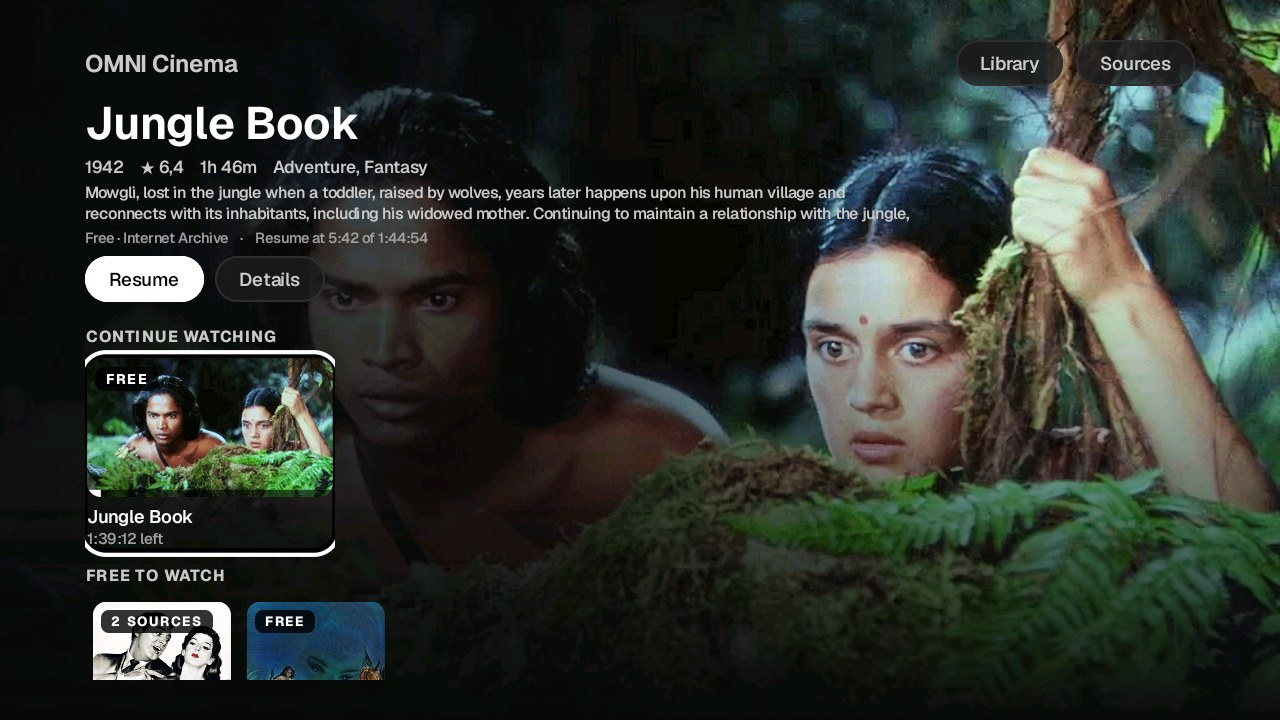
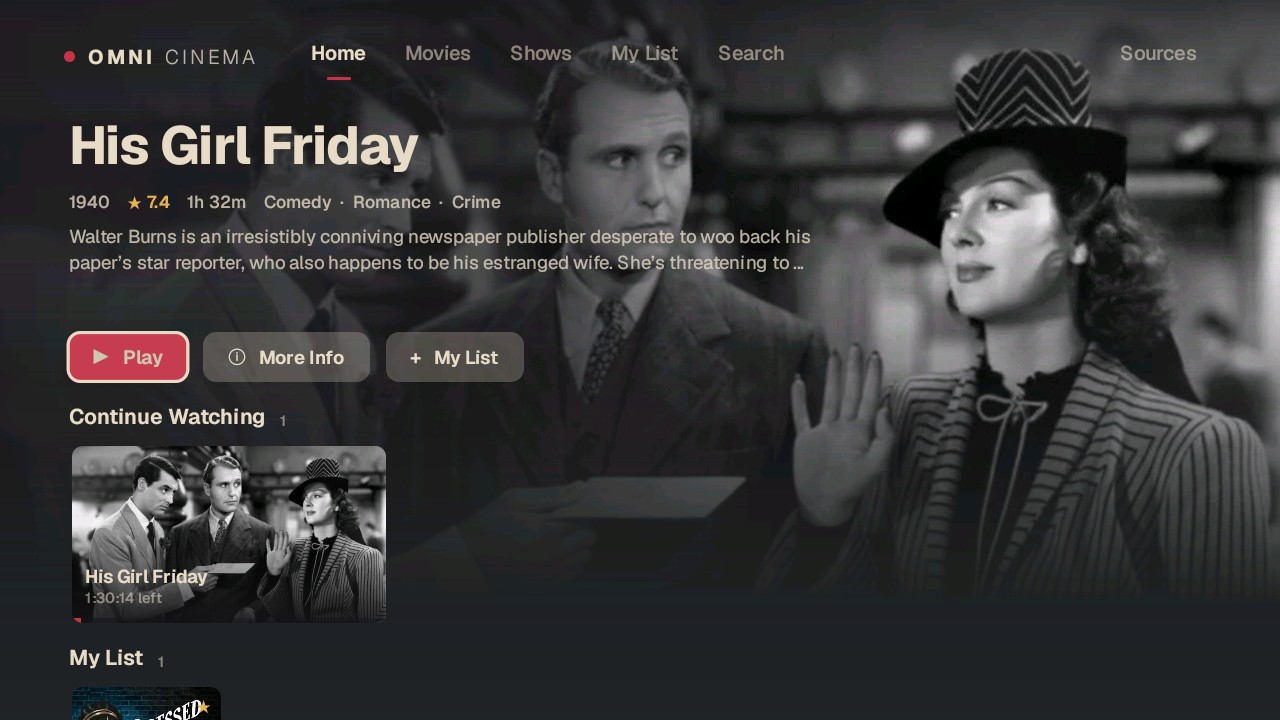
Cinema: horizontal focus stops at row ends; README screenshots and changelog for the redesign

diff --git a/android/apps/cinema/src/main/kotlin/com/rasha/omni/cinema/Home.kt b/android/apps/cinema/src/main/kotlin/com/rasha/omni/cinema/Home.kt
@@ -178,7 +178,7 @@ private fun HomeTab(vm: CinemaViewModel, play: (Entry) -> Unit) {
                         Text(r.title, style = CineType.Row)
                         Text(r.items.size.toString(), style = CineType.Small)
                     }
-                    LazyRow(horizontalArrangement = Arrangement.spacedBy(14.dp), contentPadding = PaddingValues(start = 6.dp, end = 30.dp, top = 12.dp, bottom = 4.dp)) {
+                    LazyRow(Modifier.rowFence(), horizontalArrangement = Arrangement.spacedBy(14.dp), contentPadding = PaddingValues(start = 6.dp, end = 30.dp, top = 12.dp, bottom = 4.dp)) {
                         items(r.items, key = { r.id + it.id.text }) { t ->
                             val key = r.id + t.id.text
                             if (r.landscape) LandscapeCard(vm.lib, t, onClick = { vm.go(Screen.Title(t.id.text)) }, focusKey = key, restoreKey = vm.lastFocus, onFocused = { vm.lastFocus = key; focused = it })
@@ -215,7 +215,7 @@ private fun HeroActions(vm: CinemaViewModel, t: Title, play: (Entry) -> Unit, mo
     val saved by vm.myList.collectAsStateWithLifecycle()
     val inList = t.id.text in saved
     val resume = PlayRules.resumeAt(t.positionMs, t.durationMs)
-    Row(modifier.onFocusChanged { if (it.hasFocus) onFocus() }, horizontalArrangement = Arrangement.spacedBy(12.dp)) {
+    Row(modifier.onFocusChanged { if (it.hasFocus) onFocus() }.rowFence(), horizontalArrangement = Arrangement.spacedBy(12.dp)) {
         if (t.kind != "show") CineButton(if (resume != null) "Resume  ${PlayRules.clock(resume)}" else "Play", { vm.playTitle(t, play) }, Modifier.focusRequester(first), BtnKind.Primary, icon = "▶")
         CineButton("More Info", { vm.go(Screen.Title(t.id.text)) }, if (t.kind == "show") Modifier.focusRequester(first) else Modifier, icon = "ⓘ")
         CineButton(if (inList) "In My List" else "My List", { vm.toggleList(t.id.text) }, icon = if (inList) "✓" else "+", iconColor = if (inList) Cine.Gold else null)
@@ -256,7 +256,7 @@ private fun GridTab(vm: CinemaViewModel, tab: Tab) {
             Text(tab.label, style = CineType.Page)
             if (list.isNotEmpty()) Text(if (list.size == 1) "1 title" else "${list.size} titles", Modifier.padding(bottom = 4.dp), style = CineType.Small)
         }
-        if (base.size > 1) LazyRow(Modifier.padding(top = 10.dp), horizontalArrangement = Arrangement.spacedBy(8.dp), contentPadding = PaddingValues(horizontal = 4.dp, vertical = 4.dp)) {
+        if (base.size > 1) LazyRow(Modifier.padding(top = 10.dp).rowFence(), horizontalArrangement = Arrangement.spacedBy(8.dp), contentPadding = PaddingValues(horizontal = 4.dp, vertical = 4.dp)) {
             items(genres) { g -> Chip(g, g == genre) { genre = g } }
             item { Spacer(Modifier.width(10.dp)) }
             item { Chip("Sort: ${sort.label}", false) { sort = Sort.values()[(sort.ordinal + 1) % Sort.values().size] } }
@@ -268,7 +268,7 @@ private fun GridTab(vm: CinemaViewModel, tab: Tab) {
                 tab == Tab.Shows -> "No series in your library yet. Episodes named like “Show S01E02” on your server or USB drive appear here."
                 else -> "No films here yet. Add a source in Sources."
             }, Modifier.padding(top = 24.dp, start = 4.dp).widthIn(max = 560.dp), style = CineType.Body)
-        } else LazyVerticalGrid(GridCells.Fixed(7), Modifier.fillMaxSize().padding(top = 6.dp), horizontalArrangement = Arrangement.spacedBy(14.dp), verticalArrangement = Arrangement.spacedBy(4.dp),
+        } else LazyVerticalGrid(GridCells.Fixed(7), Modifier.fillMaxSize().padding(top = 6.dp).rowFence(), horizontalArrangement = Arrangement.spacedBy(14.dp), verticalArrangement = Arrangement.spacedBy(4.dp),
             contentPadding = PaddingValues(start = 6.dp, end = 6.dp, top = 12.dp, bottom = 40.dp)) {
             items(list.size, key = { list[it].id.text }) { i ->
                 val t = list[i]
@@ -336,7 +336,7 @@ private fun SearchTab(vm: CinemaViewModel) {
             }
             Column(Modifier.weight(1f)) {
                 Text(when { q.isBlank() -> "Your library: ${ui.titles.size} titles"; results.isEmpty() -> "Nothing in your library matches “$q”"; else -> "${results.size} found" }, style = CineType.Row)
-                LazyVerticalGrid(GridCells.Fixed(5), Modifier.fillMaxSize(), horizontalArrangement = Arrangement.spacedBy(14.dp), verticalArrangement = Arrangement.spacedBy(4.dp),
+                LazyVerticalGrid(GridCells.Fixed(5), Modifier.fillMaxSize().rowFence(left = true), horizontalArrangement = Arrangement.spacedBy(14.dp), verticalArrangement = Arrangement.spacedBy(4.dp),
                     contentPadding = PaddingValues(start = 6.dp, end = 6.dp, top = 14.dp, bottom = 40.dp)) {
                     val shown = if (q.isBlank()) ui.titles.sortedByDescending { it.added } else results
                     items(shown.size, key = { shown[it].id.text }) { i ->

diff --git a/android/apps/cinema/src/main/kotlin/com/rasha/omni/cinema/Detail.kt b/android/apps/cinema/src/main/kotlin/com/rasha/omni/cinema/Detail.kt
@@ -99,7 +99,7 @@ fun TitleScreen(vm: CinemaViewModel, s: Screen.Title, play: (Entry) -> Unit) {
                     }
                     val resume = PlayRules.resumeAt(title.positionMs, title.durationMs)
                     val inList = title.id.text in saved
-                    Row(Modifier.padding(top = 6.dp), horizontalArrangement = Arrangement.spacedBy(12.dp)) {
+                    Row(Modifier.padding(top = 6.dp).rowFence(), horizontalArrangement = Arrangement.spacedBy(12.dp)) {
                         CineButton(if (resume != null) "Resume  ${PlayRules.clock(resume)}" else if (title.watched) "Watch Again" else "Play", { vm.playTitle(title, play) }, Modifier.focusRequester(fr), BtnKind.Primary, icon = "▶")
                         if (resume != null) CineButton("From the Start", { vm.setWatched(title.copies.first(), false) { vm.playTitle(title, play) } }, icon = "↺")
                         CineButton(if (inList) "In My List" else "My List", { vm.toggleList(title.id.text) }, icon = if (inList) "✓" else "+", iconColor = if (inList) Cine.Gold else null)
@@ -111,7 +111,7 @@ fun TitleScreen(vm: CinemaViewModel, s: Screen.Title, play: (Entry) -> Unit) {
             if (rel.isNotEmpty()) run {
                 Column(Modifier.padding(top = 8.dp)) {
                     Text("More Like This", style = CineType.Row)
-                    LazyRow(horizontalArrangement = Arrangement.spacedBy(14.dp), contentPadding = PaddingValues(start = 4.dp, end = 30.dp, top = 12.dp, bottom = 4.dp)) {
+                    LazyRow(Modifier.rowFence(), horizontalArrangement = Arrangement.spacedBy(14.dp), contentPadding = PaddingValues(start = 4.dp, end = 30.dp, top = 12.dp, bottom = 4.dp)) {
                         items(rel, key = { "rel" + it.id.text }) { r -> PosterCard(vm.lib, r, onClick = { vm.go(Screen.Title(r.id.text)) }, width = 100.dp, saved = r.id.text in saved) }
                     }
                 }

diff --git a/android/apps/cinema/src/main/kotlin/com/rasha/omni/cinema/CinemaUi.kt b/android/apps/cinema/src/main/kotlin/com/rasha/omni/cinema/CinemaUi.kt
@@ -7,6 +7,8 @@ import androidx.compose.foundation.background
 import androidx.compose.foundation.border
 import androidx.compose.foundation.clickable
 import androidx.compose.foundation.focusable
+import androidx.compose.foundation.focusGroup
+import androidx.compose.ui.focus.focusProperties
 import androidx.compose.foundation.interaction.MutableInteractionSource
 import androidx.compose.foundation.layout.Arrangement
 import androidx.compose.foundation.layout.Box
@@ -167,3 +169,14 @@ fun CineCard(onClick: () -> Unit, modifier: Modifier = Modifier, content: @Compo
         .then(if (focused) Modifier.border(2.dp, Cine.Ivory, shape) else Modifier)
         .clip(shape).background(bg).clickable(interactionSource = remember { MutableInteractionSource() }, indication = null, onClick = onClick).padding(horizontal = 16.dp, vertical = 12.dp)) { content() }
 }
+
+/**
+ * Remote-control rule for rows: Left and Right stay inside (at the end of a short row focus stops, it never jumps to the navigation bar); Up and Down
+ * leave as usual. [left] = true lets Left out (the search results, whose keyboard is on the left).
+ */
+@OptIn(androidx.compose.ui.ExperimentalComposeUiApi::class)
+fun Modifier.rowFence(left: Boolean = false): Modifier = this
+    .focusProperties {
+        exit = { d -> if (d == androidx.compose.ui.focus.FocusDirection.Right || (d == androidx.compose.ui.focus.FocusDirection.Left && !left)) androidx.compose.ui.focus.FocusRequester.Cancel else androidx.compose.ui.focus.FocusRequester.Default }
+    }
+    .focusGroup()

diff --git a/README.md b/README.md
@@ -16,8 +16,10 @@ Built and measured on one deliberately weak TV (Vestel/MediaTek, Android 11, 32-
 | ![Assistant](docs/screenshots/assistant.jpg) | ![Notice](docs/screenshots/notice.jpg) |
 | **Remote buttons** | **Weather** |
 | ![Remote buttons](docs/screenshots/remote-buttons.jpg) | ![Weather](docs/screenshots/weather.jpg) |
-| **Cinema**, playing from your own server | **Title page** (public-domain film) |
-| ![Cinema](docs/screenshots/cinema-home.jpg) | ![Title](docs/screenshots/cinema-title.jpg) |
+| **OMNI Cinema**: cinematic hero, your server and free public-domain films | **Browsing rows** (the hero follows what you focus) |
+| ![Cinema](docs/screenshots/cinema-home.jpg) | ![Rows](docs/screenshots/cinema-rows.jpg) |
+| **Title page** with More Like This | **Movies** with genre filters, plus Search and My List |
+| ![Title](docs/screenshots/cinema-title.jpg) | ![Movies](docs/screenshots/cinema-movies.jpg) |
 
 ## What you get
 - **Welcome & setup**: a liquid-glass *WELCOME TO OMNI UI* first run over your wallpaper, then Home, a live remote check, OMNI server discovery on your network, weather place and permissions. Run it again any time from Settings.
@@ -28,7 +30,7 @@ Built and measured on one deliberately weak TV (Vestel/MediaTek, Android 11, 32-
 - **Control Center** on the right side, opened with the remote's **INFO** key: volume, HDMI inputs, server status, weather, network, shortcuts. Everything is done in place.
 - **Universal search** across apps, channels, films, inputs and settings.
 - **HDMI inputs** with a live preview card that expands to full screen with sound, without leaving the launcher. *Brand-dependent*, see Status.
-- **Cinema**: a native player app for your own films. It reads a library from your home server, resumes where you stopped, and shares that position across devices.
+- **OMNI Cinema**: a streaming-style home for your own films (charcoal, ivory, crimson and gold, with the artwork setting the mood): a cinematic hero, rows for Continue Watching, My List, Recently Added, your server, free films and genres, Movies / Shows / My List / Search tabs, title pages with More Like This. It plays from your home server (resuming where you stopped, on any device), USB drives and the Internet Archive.
 - **Weather, Server status and the Screensaver** are built into the same app (each runs in its own process and exits when you close it): the weather screen, the home-server dashboard, and landscape photos when the TV is idle. No separate installs, no extra icons.
 - **`omniptvd`**: a home server in plain Python (standard library only) that scans a folder of films, matches posters and overviews through TMDB, streams the original files with byte ranges, and keeps watch positions.
 

diff --git a/CHANGELOG.md b/CHANGELOG.md
@@ -1,5 +1,9 @@
 # Changelog
 
+## 1.0.0-rc.3
+* **OMNI Cinema redesigned** as a premium streaming experience: charcoal / ivory / crimson / gold, a cinematic hero that follows focus with the artwork's own colour as ambient light, artwork-led poster and landscape cards with a restrained focus lift, rows that snap under the hero, a top navigation (Home, Movies, Shows, My List, Search, Sources), a new title page with More Like This, an on-screen-keyboard Search across titles, genres, years and descriptions, and a real My List kept on the TV. Rows exist only when the library can fill them. Playback, resume, sources and the server library are unchanged.
+* Fix found while testing on an Android TV 11 emulator: building the Home rows recursed forever (crash on open); now covered by a test.
+
 ## 1.0.0-rc.2
 * **One app.** Cinema, Weather, the Server dashboard and the screensaver are now inside the OMNI launcher APK (about 2.5 MB), each in its own process that exits when you close it. Guide, Play, Control and Reference are removed. One install, one update, no extra icons; weather uses the one place you picked for Home; the Server screen reuses the server you paired in Cinema.
 * Settings has *Server* and *Screensaver* rows. Upgrade note: uninstall the old separate OMNI apps first (they use the same names as the built-in Cinema, so Android refuses to keep both); Cinema's local data (the server pairing) must be entered once again, films and positions on your server are kept.
